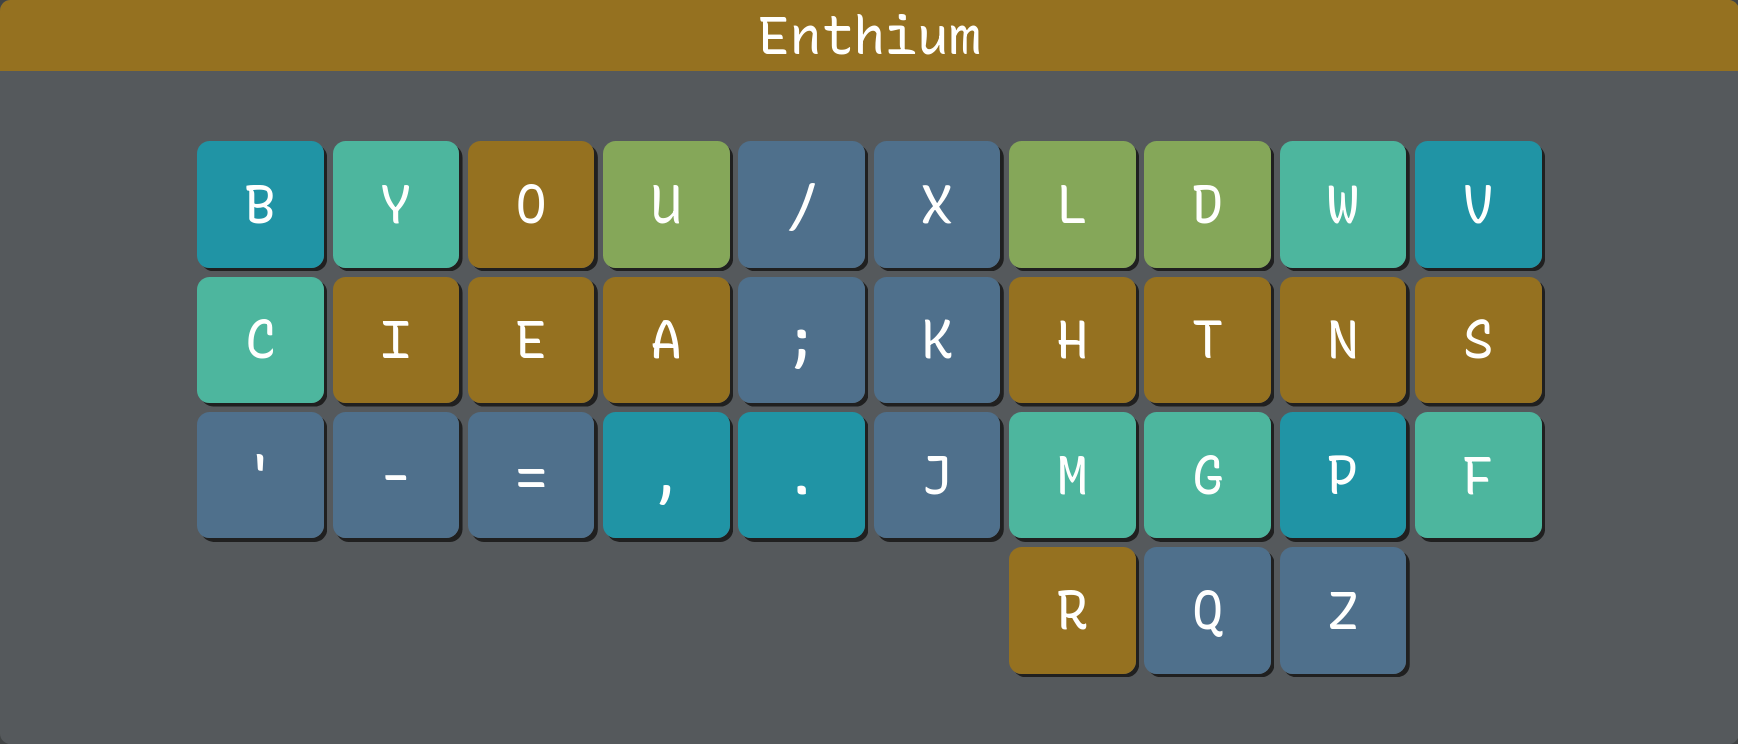
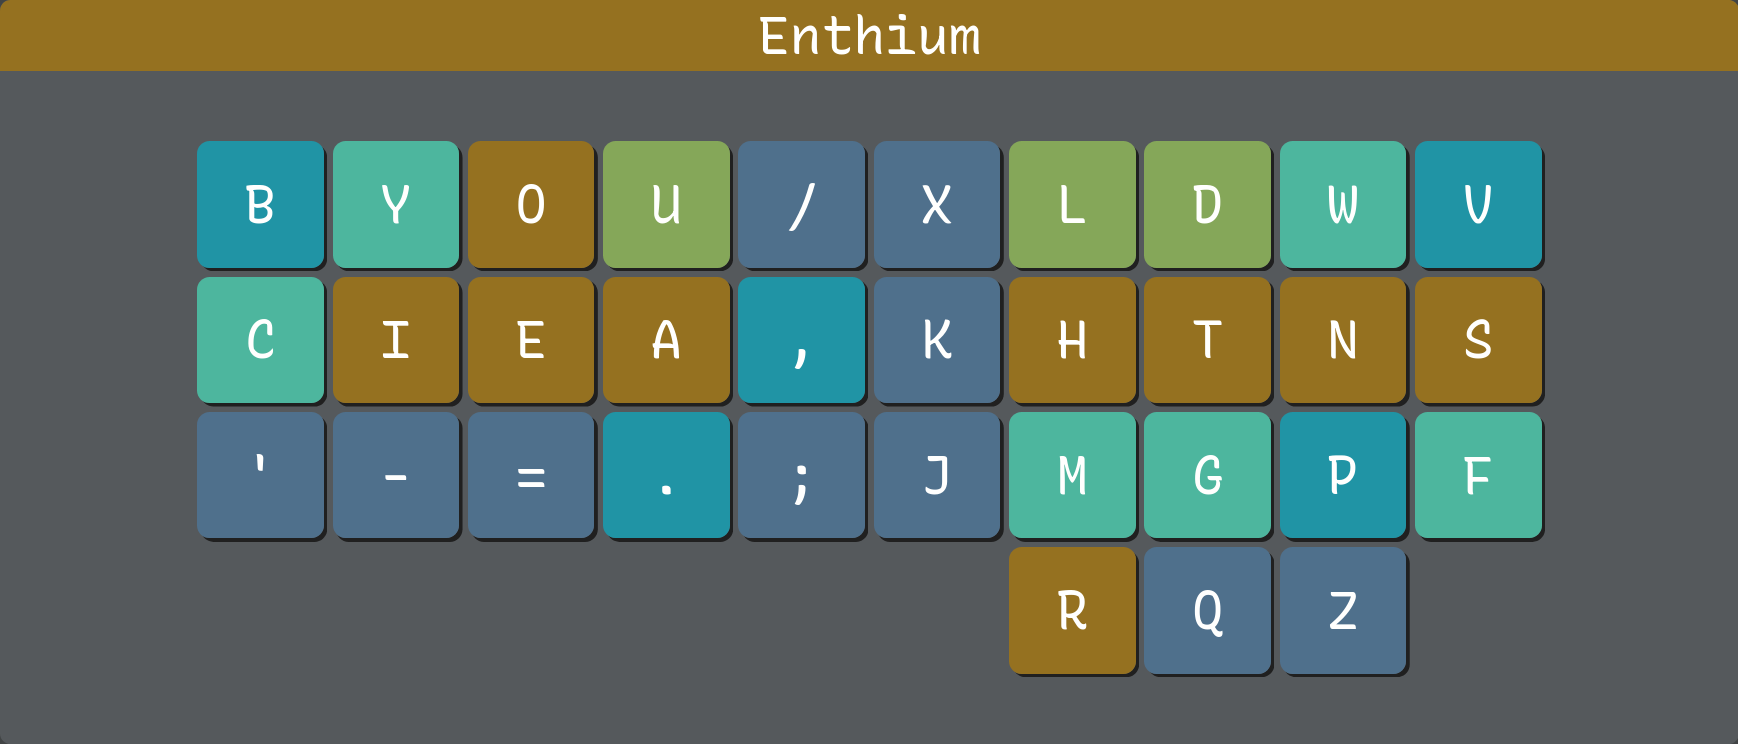
restore staggered comma + dot; slash easier on top

Changed region(s): [[0.4039, 0.371, 0.4971, 0.7419]]

diff --git a/README.md b/README.md
@@ -15,8 +15,8 @@ placement of punctuation for programming in the spirit of the Engrammer layout.
 ## Layout
 
       b y o u / x l d w v
-    q c i e a ; k h t n s z
-      ' - = , . j m g p f
+    q c i e a , k h t n s z
+      ' - = . ; j m g p f
                 r
 
 ## Rationale
@@ -26,7 +26,15 @@ placement of punctuation for programming in the spirit of the Engrammer layout.
 * Apostrophe is away (on a different finger entirely) from YOU and I so
   it can be typed without same-finger bigrams such as `you'd` and `I'd`.
 
+* Slash is near 1 for affinity between their shifted symbols `?` and `!`.
+
 * Cluster minus and equals for intuitive zoom in/out shortcuts with Ctrl.
+
+* Cluster comma and semicolon for prev/next jumping in Vim for f/F/t/T.
+
+* Although period and comma are backwards in the sense of their shifted
+  symbols `>` and `<`, their arrangement reduces lateral stretch bigrams
+  and also clusters `>` with minus and equals for `->` and `=>` arrows.
 
 ### Deviation: PF and WV
 
@@ -62,16 +70,16 @@ entry for others seeking to switch over to Enthium from the Engrammer layout. :)
 ![Screenshot](analyzer/cyanophage.png)
 
 Playground link:
-> https://cyanophage.github.io/playground.html?layout=vwdlx%2Fuoyb%5Csnthk%3Baeicqfpgmj.%2C%3D-%27zr&mode=ergo&lan=english
+> https://cyanophage.github.io/playground.html?layout=vwdlx%2Fuoyb%5Csnthk%2Caeicqfpgmj%3B.%3D-%27zr&mode=ergo&lan=english
 
 Overall stats:
 * Total Word Effort: 735.9
-* Effort:            412.53
+* Effort:            398.47
 
 Finger usage:
 * Same Finger Bigrams: 0.55%
-* Skip Bigrams (2u):   0.32%
-* Lat Stretch Bigrams: 0.22%
+* Skip Bigrams (2u):   0.30%
+* Lat Stretch Bigrams: 0.20%
 * Pinky/Ring Scissors: 0.49%
 
 Trigram stats:
@@ -93,8 +101,8 @@ Trigram stats:
 
 Overall stats:
 
-    BIGRAMS     SFB: 0.83%      LSB: 0.48%      HSB: 5.62%      FSB: 0.37%
-    SKIPGRAMS   SFS: 6.56%      LSS: 0.81%      HSS: 5.47%      FSS: 0.48%
+    BIGRAMS     SFB: 0.83%      LSB: 0.41%      HSB: 5.62%      FSB: 0.37%
+    SKIPGRAMS   SFS: 6.56%      LSS: 0.85%      HSS: 5.47%      FSS: 0.48%
     TRIGRAMS    ALT: 40.37%     ROL: 41.16%     ONE: 2.70%      RED: 1.90%
 
 Finger usage:
@@ -106,8 +114,8 @@ Finger usage:
 Custom source for copy/paste:
 
     b y o u / x l d w v
-    c i e a ; k h t n s
-    ' - = , . j m g p f
+    c i e a , k h t n s
+    ' - = . ; j m g p f
     r q z
 
 ### [Oxey's analyzer](https://oxey.dev/playground/index.html)
@@ -117,7 +125,7 @@ Custom source for copy/paste:
 Overall stats:
 * Sfb:              0.829%
 * Dsfb:             6.529%
-* Lsb:              0.337%
+* Lsb:              0.319%
 * Inrolls:          29.137%
 * Outrolls:         14.679%
 * Total Rolls:      43.816%
@@ -139,7 +147,7 @@ Finger usage:
     finger 3:   13.11%  finger 6:       12.33%
 
     Left hand:   46.68% Right hand:     47.10%
-    Left center: 1.294% Right center:   1.189%
+    Left center: 1.211% Right center:   1.189%
 
     Home keys usage: 56.37%
 
